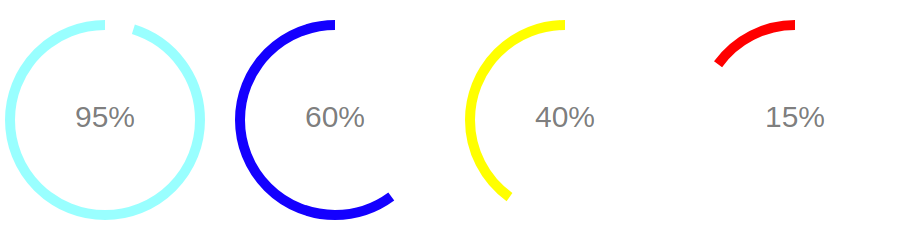
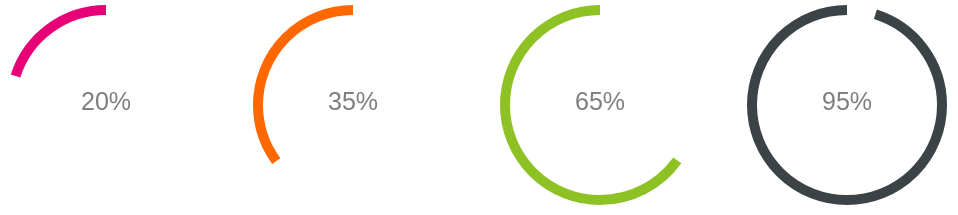
updated image example in README

diff --git a/src/app/app.component.html b/src/app/app.component.html
@@ -57,6 +57,94 @@
   >
   </radial-progress>
 </div>
+
+
+
+
+
+
+<div style="display: flex; justify-content: space-evenly">
+  <radial-progress [percent]="20"
+                   [addClass]="'style--1'"
+                   [circleSize]="200"
+                   [strokeSteps]="[{
+                    strokeColor: '#e00079',
+                    strokeStep: 25
+                 }, {
+                    strokeColor: '#ff7300',
+                    strokeStep: 50
+                 }, {
+                    strokeColor: 'rgb(149,193,31)',
+                    strokeStep: 75
+                 }, {
+                    strokeColor: 'rgb(58,65,68)',
+                    strokeStep: 100
+                 }
+                 ]"
+  >
+  </radial-progress>
+  <radial-progress [percent]="35"
+                   [addClass]="'style--1'"
+                   [circleSize]="200"
+                   [strokeSteps]="[{
+                    strokeColor: '#e00079',
+                    strokeStep: 25
+                 }, {
+                    strokeColor: '#ff7300',
+                    strokeStep: 50
+                 }, {
+                    strokeColor: 'rgb(149,193,31)',
+                    strokeStep: 75
+                 }, {
+                    strokeColor: 'rgb(58,65,68)',
+                    strokeStep: 100
+                 }
+                 ]"
+  >
+  </radial-progress>
+  <radial-progress [percent]="65"
+                   [addClass]="'style--1'"
+                   [circleSize]="200"
+                   [strokeSteps]="[{
+                    strokeColor: '#e00079',
+                    strokeStep: 25
+                 }, {
+                    strokeColor: '#ff7300',
+                    strokeStep: 50
+                 }, {
+                    strokeColor: 'rgb(149,193,31)',
+                    strokeStep: 75
+                 }, {
+                    strokeColor: 'rgb(58,65,68)',
+                    strokeStep: 100
+                 }
+                 ]"
+  >
+  </radial-progress>
+  <radial-progress [percent]="95"
+                   [addClass]="'style--1'"
+                   [circleSize]="200"
+                   [strokeSteps]="[{
+                    strokeColor: '#e00079',
+                    strokeStep: 25
+                 }, {
+                    strokeColor: '#ff7300',
+                    strokeStep: 50
+                 }, {
+                    strokeColor: 'rgb(149,193,31)',
+                    strokeStep: 75
+                 }, {
+                    strokeColor: 'rgb(58,65,68)',
+                    strokeStep: 100
+                 }
+                 ]"
+  >
+  </radial-progress>
+</div>
+
+
+
+
 <div style="display: flex; justify-content: space-evenly">
   <radial-progress
     [percent]="5"

diff --git a/README.md b/README.md
@@ -22,7 +22,6 @@ import {RadialProgressModule} from "ng2-radial-progress";
   imports: [
     BrowserModule,
     RadialProgressModule // Import RadialProgressModule here
-
   ],
   providers: [],
   bootstrap: [AppComponent]
@@ -72,18 +71,18 @@ For example
    <radial-progress
      [percent]="85"
      [strokeSteps]="[{
-        strokeColor: 'red',
-        strokeStep: 25
-     }, {
-        strokeColor: '#FF0',
-        strokeStep: 50
-     }, {
-        strokeColor: 'rgb(0, 0, 255)',
-        strokeStep: 75
-     }, {
-        strokeColor: 'rgba(0, 255, 255, .4)',
-        strokeStep: 100
-     }]"
+         strokeColor: '#e00079',
+         strokeStep: 25
+      }, {
+         strokeColor: '#ff7300',
+         strokeStep: 50
+      }, {
+         strokeColor: 'rgb(149,193,31)',
+         strokeStep: 75
+      }, {
+         strokeColor: 'rgb(58,65,68)',
+         strokeStep: 100
+      }]"
    ></radial-progress>
 ```
 will result in something like this
